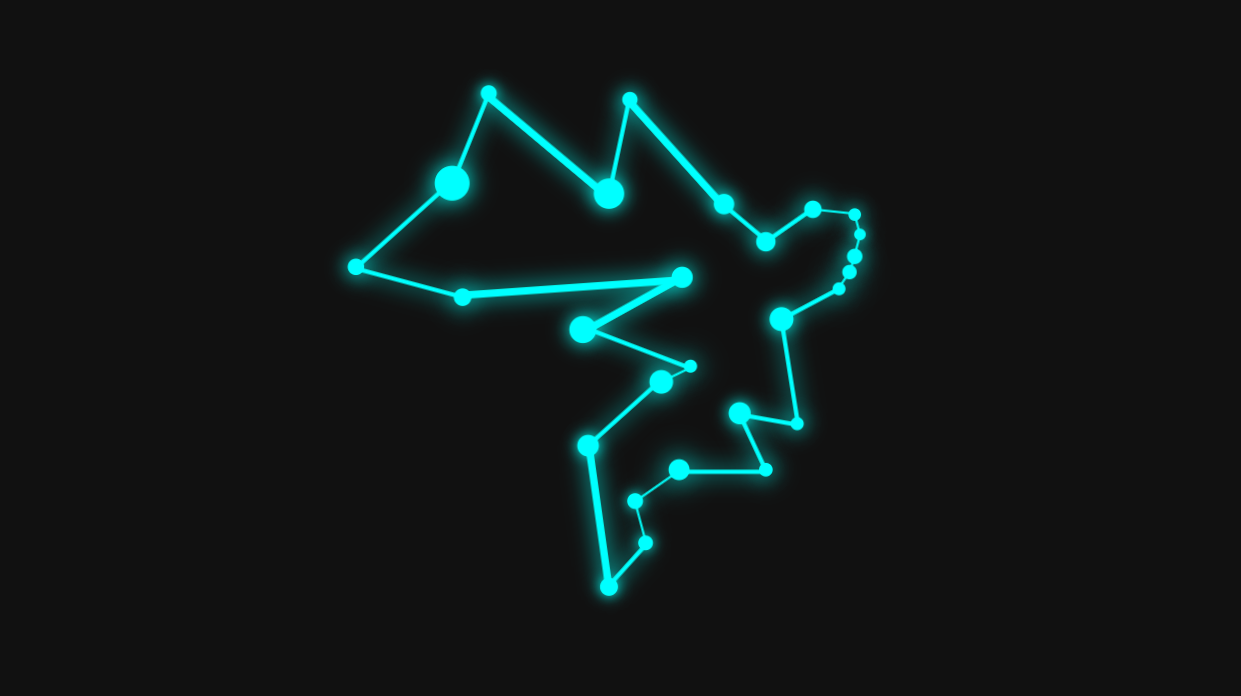
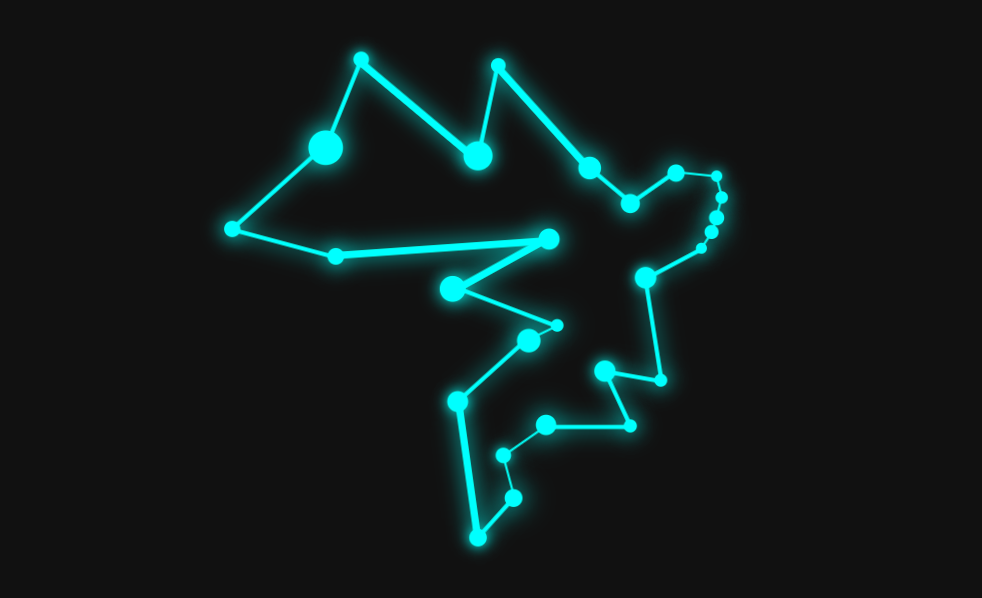
update hub page

Changed region(s): [[0.4277, 0.0602, 0.7637, 0.9331], [0.2138, 0.0602, 0.4277, 0.4816]]

diff --git a/index.html b/index.html
@@ -165,6 +165,18 @@
       </div>
 
       <div class="card">
+        <img src="./animations/vrp-greedy/preview.png" alt="VRP Greedy Route preview">
+        <h2>VRP Greedy Route</h2>
+        <p>
+          CSS-only visualization of a greedy Vehicle Routing Problem with a central depot and multiple routes across Brazilian states.
+        </p>
+        <div class="links">
+          <a href="./animations/vrp-greedy/index.html" target="_blank">View</a>
+          <a href="https://codepen.io/guillhermm/pen/raLjEEJ" target="_blank">CodePen</a>
+        </div>
+      </div>
+
+      <div class="card">
         <img src="./animations/wave/preview.png" alt="Wave preview">
         <h2>Wave</h2>
         <p>Fluid wave animation with gradient effects using only CSS keyframes.</p>
